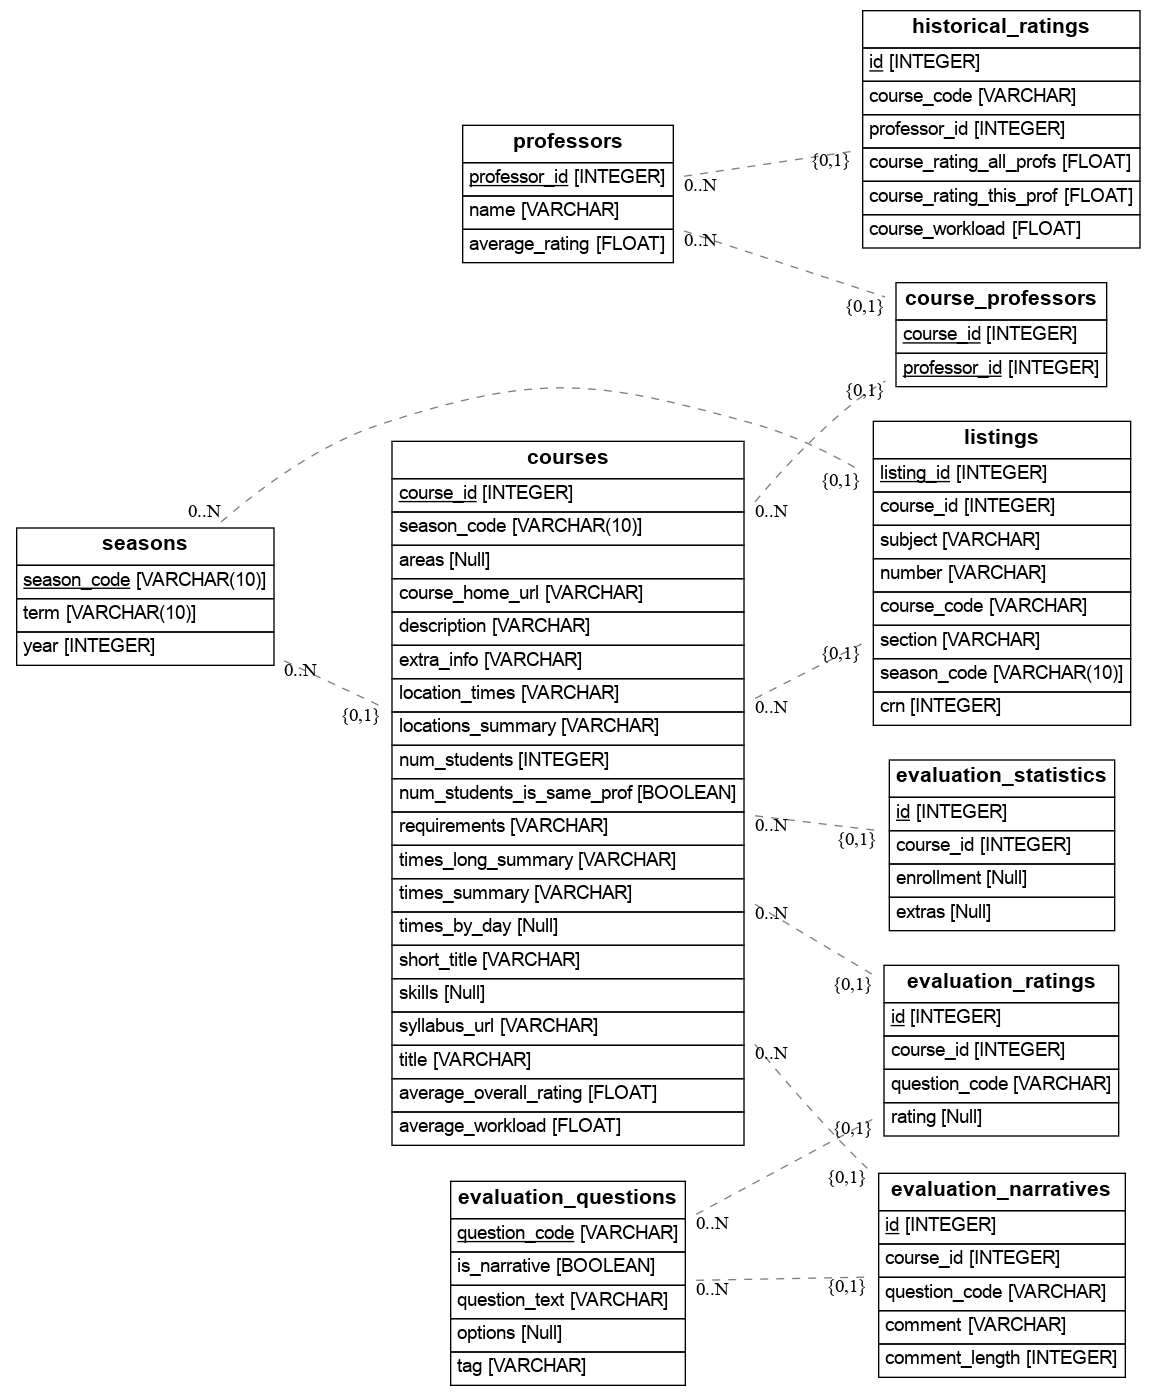
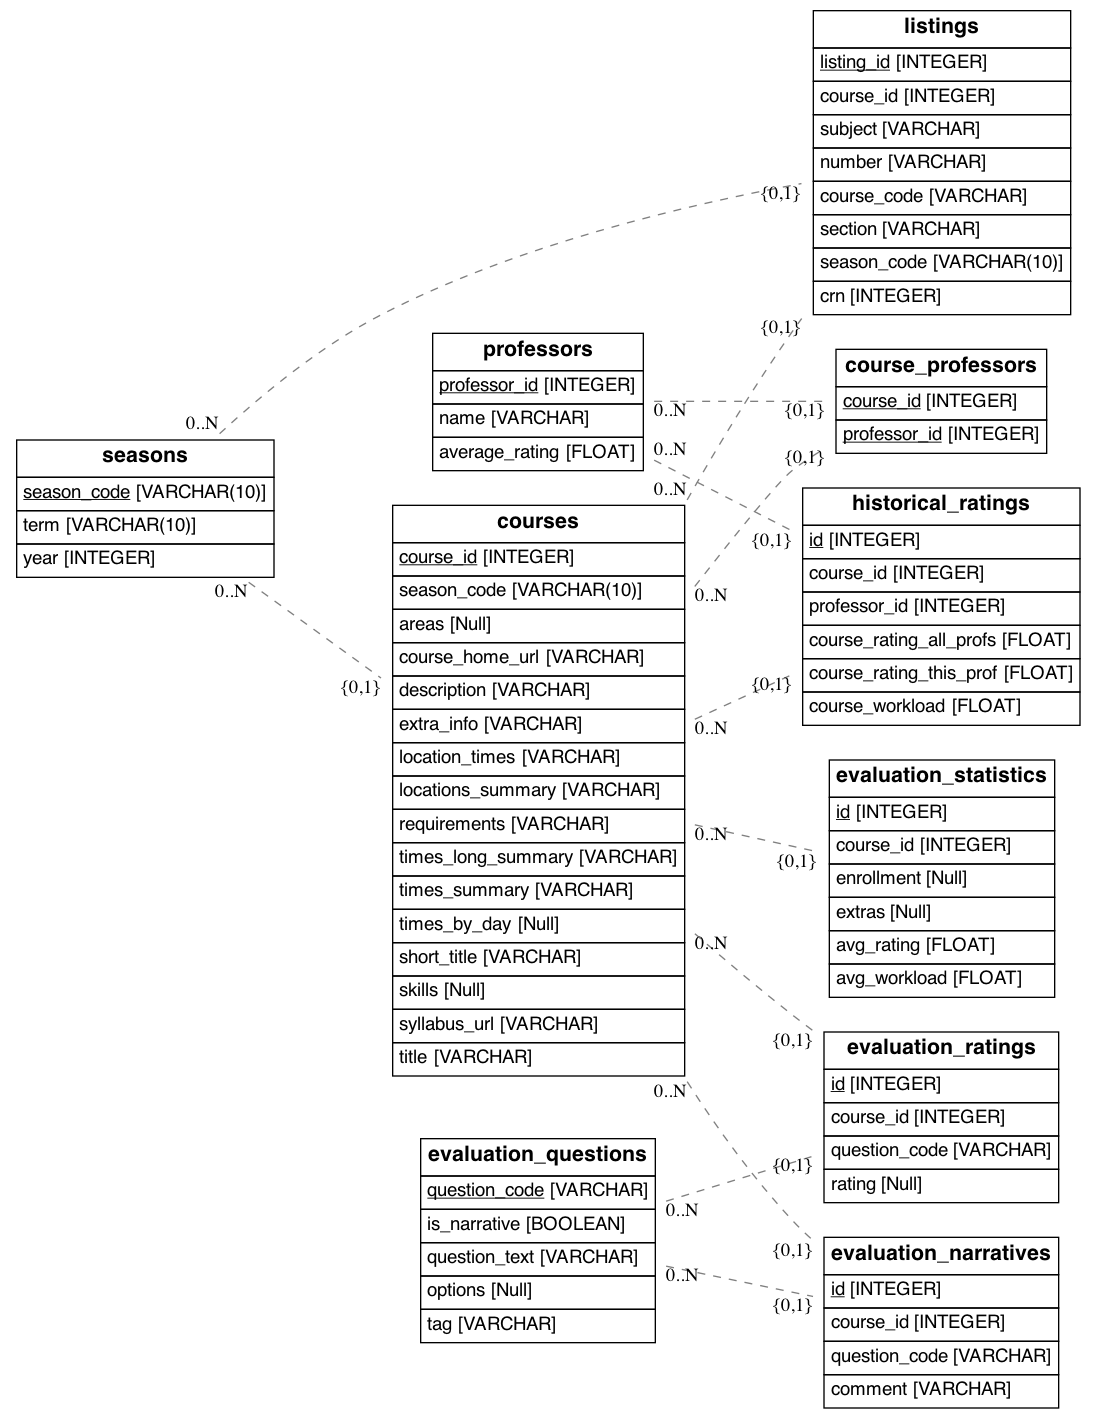
Use course_id in historical_ratings

diff --git a/ferry/computed.py b/ferry/computed.py
@@ -21,9 +21,11 @@ def seasons_computed(session):
     for season in session.query(database.Season):  # type: database.Season
         season_code = season.season_code
         if len(season_code) != 6:
-            raise database.InvariantError("season code is not formatted correctly")
+            raise database.InvariantError(
+                "season code is not formatted correctly")
         season.year = int(season_code[:4])
-        season.term = {"1": "spring", "2": "summer", "3": "fall"}[season_code[-1]]
+        season.term = {"1": "spring", "2": "summer",
+                       "3": "fall"}[season_code[-1]]
 
 
 def listings_computed(session):
@@ -91,7 +93,8 @@ def question_tag_invariant(session):
     """
     # Dictionary of question_code -> (is_narrative, len(options))
     tag_cache = {}
-    optlen = lambda l: len(l) if l else -1
+
+    def optlen(l): return len(l) if l else -1
 
     for question in session.query(
         database.EvaluationQuestion
@@ -100,7 +103,8 @@ def question_tag_invariant(session):
             continue
 
         if question.tag not in tag_cache:
-            tag_cache[question.tag] = (question.is_narrative, optlen(question.options))
+            tag_cache[question.tag] = (
+                question.is_narrative, optlen(question.options))
         else:
             narrative, count = tag_cache[question.tag]
             if question.is_narrative != narrative or count != optlen(question.options):
@@ -143,8 +147,10 @@ def evaluation_statistics_computed(session):
     for evaluation_statistics in tqdm(
         session.query(database.EvaluationStatistics).all()
     ):  # type: database.EvaluationStatistics
-        overall_ratings = fetch_ratings(evaluation_statistics.course_id, "rating")
-        workload_ratings = fetch_ratings(evaluation_statistics.course_id, "workload")
+        overall_ratings = fetch_ratings(
+            evaluation_statistics.course_id, "rating")
+        workload_ratings = fetch_ratings(
+            evaluation_statistics.course_id, "workload")
 
         evaluation_statistics.avg_rating = average_rating(overall_ratings)
         evaluation_statistics.avg_workload = average_rating(workload_ratings)
@@ -172,43 +178,45 @@ def historial_ratings_computed(session):
     """
     Update: historical_ratings (create entries as needed)
     """
-    query = (
-        session.query(database.Listing.course_code, database.Course)
-        .join(database.Course)
-        .options(sqlalchemy.orm.joinedload(database.Course.professors))
-    )
 
-    for course_code, course in tqdm(query.all()):
+    query = session.query(database.Course)
+
+    for course in tqdm(query.all()):
+
+        course_id = course.course_id
+
         for professor in course.professors:
             historical_ratings, _ = database.get_or_create(
                 session,
                 database.HistoricalRating,
-                course_code=course_code,
+                course_id=course_id,
                 professor_id=professor.professor_id,
             )
 
             # Course rating - all professors.
             rating_all = (
                 session.query(
-                    sqlalchemy.func.avg(database.EvaluationStatistics.avg_rating)
+                    sqlalchemy.func.avg(
+                        database.EvaluationStatistics.avg_rating)
                 )
                 .select_from(database.Listing)
                 .join(database.Course)
                 .join(database.EvaluationStatistics)
-                .filter(database.Listing.course_code == course_code)
+                .filter(database.Listing.course_id == course_id)
             )
             historical_ratings.course_rating_all_profs = rating_all.scalar()
 
             # Course rating - this professor.
             rating_this = (
                 session.query(
-                    sqlalchemy.func.avg(database.EvaluationStatistics.avg_rating)
+                    sqlalchemy.func.avg(
+                        database.EvaluationStatistics.avg_rating)
                 )
                 .select_from(database.Listing)
                 .join(database.Course)
                 .join(database.EvaluationStatistics)
                 .join(database.course_professors)
-                .filter(database.Listing.course_code == course_code)
+                .filter(database.Listing.course_id == course_id)
                 .filter(
                     database.course_professors.c.professor_id == professor.professor_id
                 )
@@ -218,12 +226,13 @@ def historial_ratings_computed(session):
             # Course workload.
             workload_all = (
                 session.query(
-                    sqlalchemy.func.avg(database.EvaluationStatistics.avg_workload)
+                    sqlalchemy.func.avg(
+                        database.EvaluationStatistics.avg_workload)
                 )
                 .select_from(database.Listing)
                 .join(database.Course)
                 .join(database.EvaluationStatistics)
-                .filter(database.Listing.course_code == course_code)
+                .filter(database.Listing.course_id == course_id)
             )
             historical_ratings.course_workload = workload_all.scalar()
 
@@ -250,14 +259,14 @@ def professors_computed(session):
 
 if __name__ == "__main__":
     items = [
-        seasons_computed,
-        listing_invariants,
-        course_invariants,
-        listings_computed,
-        question_invariants,
-        questions_computed,
-        question_tag_invariant,
-        evaluation_statistics_computed,
+        # seasons_computed,
+        # listing_invariants,
+        # course_invariants,
+        # listings_computed,
+        # question_invariants,
+        # questions_computed,
+        # question_tag_invariant,
+        # evaluation_statistics_computed,
         historial_ratings_computed,
         professors_computed,
     ]

diff --git a/ferry/database/models.py b/ferry/database/models.py
@@ -42,7 +42,8 @@ course_professors = Table(
     "course_professors",
     Base.metadata,
     Column("course_id", ForeignKey("courses.course_id"), primary_key=True),
-    Column("professor_id", ForeignKey("professors.professor_id"), primary_key=True),
+    Column("professor_id", ForeignKey(
+        "professors.professor_id"), primary_key=True),
 )
 
 
@@ -63,7 +64,8 @@ class Course(BaseModel):
         "Professor", secondary=course_professors, back_populates="courses"
     )
 
-    areas = Column(JSON, comment="Course areas (humanities, social sciences, sciences)")
+    areas = Column(
+        JSON, comment="Course areas (humanities, social sciences, sciences)")
     course_home_url = Column(String, comment="Link to the course homepage")
     description = Column(String, comment="Course description")
     extra_info = Column(
@@ -165,7 +167,8 @@ class Professor(BaseModel):
     __tablename__ = "professors"
 
     professor_id = Column(Integer, comment="Professor ID", primary_key=True)
-    name = Column(String, comment="Name of the professor", index=True, nullable=False)
+    name = Column(String, comment="Name of the professor",
+                  index=True, nullable=False)
 
     courses = relationship(
         "Course", secondary=course_professors, back_populates="professors"
@@ -181,7 +184,15 @@ class HistoricalRating(BaseModel):
     __tablename__ = "historical_ratings"
 
     id = Column(Integer, primary_key=True)
-    course_code = Column(String, comment='Course code (e.g. "CPSC 366"', index=True)
+
+    course_id = Column(
+        Integer,
+        ForeignKey("courses.course_id"),
+        comment="The course associated with these statistics",
+        index=True,
+        nullable=False,
+    )
+
     professor_id = Column(
         Integer,
         ForeignKey("professors.professor_id"),
@@ -207,7 +218,7 @@ class HistoricalRating(BaseModel):
         # The (course_code, professor_id) combination should be unique.
         Index(
             "idx_historical_ratings_course_code_professor_unique",
-            "course_code",
+            "course_id",
             "professor_id",
             unique=True,
         ),
@@ -225,7 +236,8 @@ class EvaluationStatistics(BaseModel):
         index=True,
         nullable=False,
     )
-    course = relationship("Course", backref=backref("statistics", uselist=False))
+    course = relationship("Course", backref=backref(
+        "statistics", uselist=False))
 
     enrollment = Column(
         JSON, comment="a JSON dictionary with information about the course's enrollment"
@@ -279,7 +291,8 @@ class EvaluationNarrative(BaseModel):
         index=True,
         nullable=False,
     )
-    question = relationship("EvaluationQuestion", backref="evaluation_narratives")
+    question = relationship("EvaluationQuestion",
+                            backref="evaluation_narratives")
 
     comment = Column(String, comment="Response to the question",)
 
@@ -306,4 +319,5 @@ class EvaluationRating(BaseModel):
     )
     question = relationship("EvaluationQuestion", backref="evaluation_ratings")
 
-    rating = Column(JSON, comment="JSON array of the response counts for each option",)
+    rating = Column(
+        JSON, comment="JSON array of the response counts for each option",)

diff --git a/ferry/migration/migrate_courses.py b/ferry/migration/migrate_courses.py
@@ -74,7 +74,6 @@ for season in seasons:
                 "Number changed-See description": "NUMBER CHANGED",
                 "Moved to preceding fall term": "MOVED TO FALL TERM",
                 "The": "ACTIVE",  # ? no idea what this means, so assuming active
-                # ? no idea what this means, so assuming active
                 "Closed to further enrollments": "CLOSED",
             }
 

diff --git a/ferry/generate_db_diagram.py b/ferry/generate_db_diagram.py
@@ -2,4 +2,4 @@ from eralchemy import render_er
 
 from ferry.database.models import Base
 
-render_er(Base, "docs/db_diagram.png")
+render_er(Base, "../docs/db_diagram.png")
